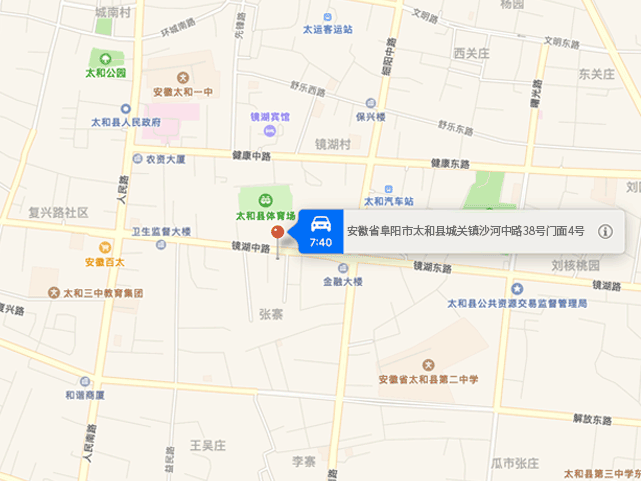
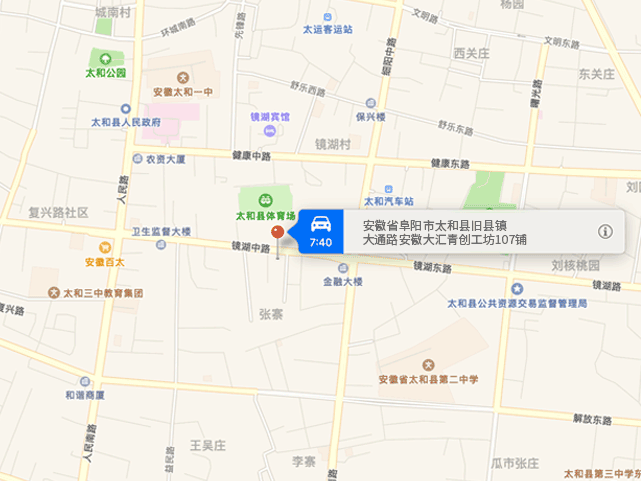
fix：代码提交

Changed region(s): [[0.5304, 0.4366, 0.9048, 0.5301]]

diff --git a/src/index/App.vue b/src/index/App.vue
@@ -206,7 +206,7 @@
               <img class="fleft" src="../assets/img/index/tel2.png" alt="">
               <div class="content13_cont_left_txt3_p fleft">
                 <p>安徽省</p>
-                <p>太和县城关镇沙河中路38号门面4号</p>
+                <p>安徽省阜阳市太和县旧县镇大通路安徽大汇青创工坊107铺</p>
               </div>
             </div>
             <div class="content13_cont_left_txt4 clearfix">
